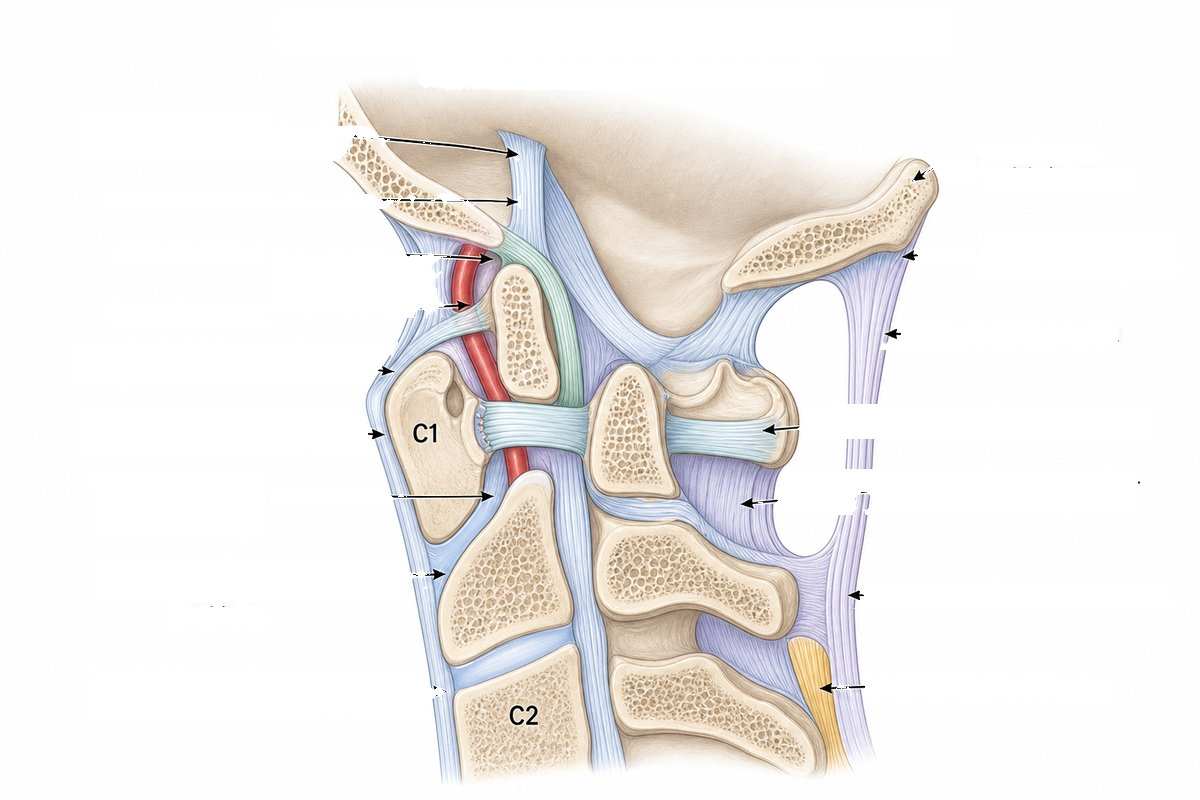
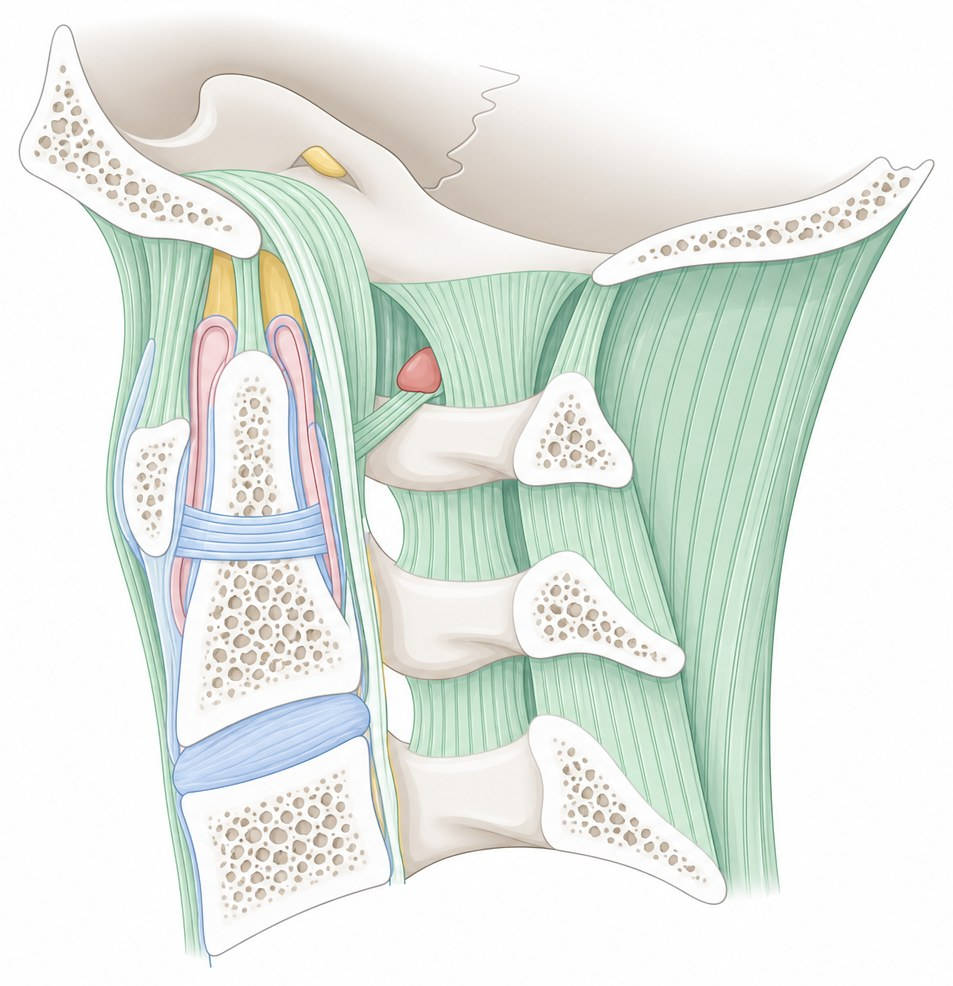
FC6: schema 18 ligaments cranio + prep refonte odontoide

diff --git a/data/flash/ch06.js b/data/flash/ch06.js
@@ -76,6 +76,7 @@
     { id: "FC-ANAT-06-S13", chapter: "06", priority: "P1", kind: "schema", front: "Schéma — Axis C2", back: "Axis C2", frontImg: "matiere/anatomie/img/ch06/blank/14_axis.png", backImg: "matiere/anatomie/img/ch06/14_axis.png" },
     { id: "FC-ANAT-06-S14", chapter: "06", priority: "P1", kind: "schema", front: "Schéma — Articulation atlanto-axoïdienne médiane", back: "Articulation atlanto-axoïdienne médiane", frontImg: "matiere/anatomie/img/ch06/blank/16_c1_c2_mediane.jpg", backImg: "matiere/anatomie/img/ch06/16_c1_c2_mediane.png" },
     { id: "FC-ANAT-06-S15", chapter: "06", priority: "P1", kind: "schema", front: "Schéma — Trajet de l’artère vertébrale", back: "Trajet de l’artère vertébrale", frontImg: "matiere/anatomie/img/ch06/blank/17_artere_vertebrale.png", backImg: "matiere/anatomie/img/ch06/17_artere_vertebrale.png" },
+    { id: "FC-ANAT-06-S17", chapter: "06", priority: "P2", kind: "schema", front: "Schéma — Ligaments crânio-rachidiens", back: "Appareil ligamentaire crânio-rachidien", frontImg: "matiere/anatomie/img/ch06/blank/18_ligaments_cranio.jpg", backImg: "matiere/anatomie/img/ch06/18_ligaments_cranio.png" },
     { id: "FC-ANAT-06-S16", chapter: "06", priority: "P1", kind: "schema", front: "Schéma — Stabilisation de l’odontoïde", back: "Stabilisation de l’odontoïde", frontImg: "matiere/anatomie/img/ch06/blank/19_odontoide.png", backImg: "matiere/anatomie/img/ch06/19_odontoide.png" }
   ];
   if (!w.PASS_FLASH_REGISTRY.includes("06")) w.PASS_FLASH_REGISTRY.push("06");

diff --git a/matiere/anatomie/ch06.html b/matiere/anatomie/ch06.html
@@ -257,9 +257,10 @@
         <div class="cloze-feedback"></div>
       </div>
 
-      <h2>16–17. Artère vertébrale &amp; ligaments crânio <span class="tag p2">P2</span></h2>
+      <h2>17–19. Artère vertébrale, ligaments crânio &amp; odontoïde <span class="tag p2">P2</span></h2>
       <figure class="schema"><img src="./img/ch06/17_artere_vertebrale.png" alt="Trajet de l’artère vertébrale" /></figure>
-      <figure class="schema"><img src="./img/ch06/19_odontoide.png" alt="Stabilisation de l’odontoïde" /></figure>
+      <figure class="schema"><img src="./img/ch06/18_ligaments_cranio.png?v=leg1" alt="Appareil ligamentaire crânio-rachidien" /></figure>
+      <figure class="schema"><img src="./img/ch06/19_odontoide.png" alt="Stabilisation de l’odontoïde — refonte en cours" /></figure>
       <div class="label-quiz" data-labels='[["c6"],["c7"],["lla","ligament longitudinal anterieur"],["cruciforme"]]'>
         <div class="course-cloze">
           <ul>
